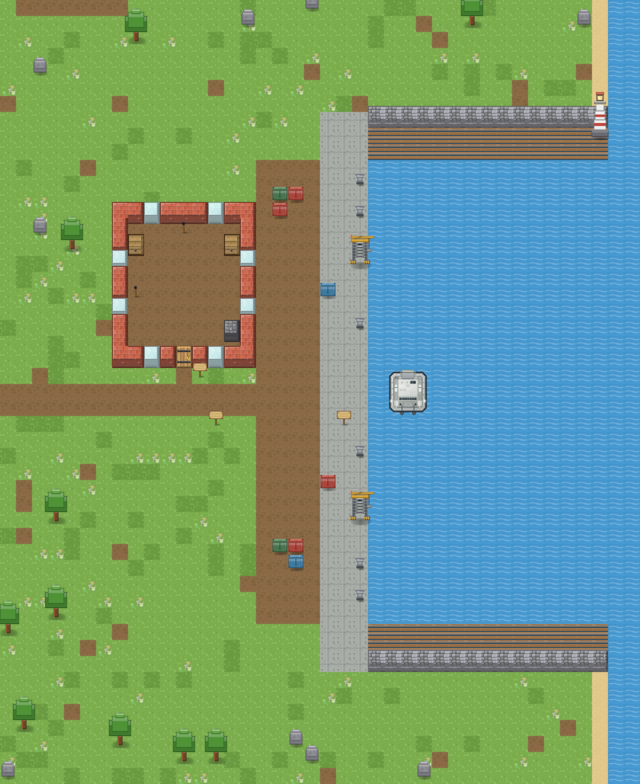
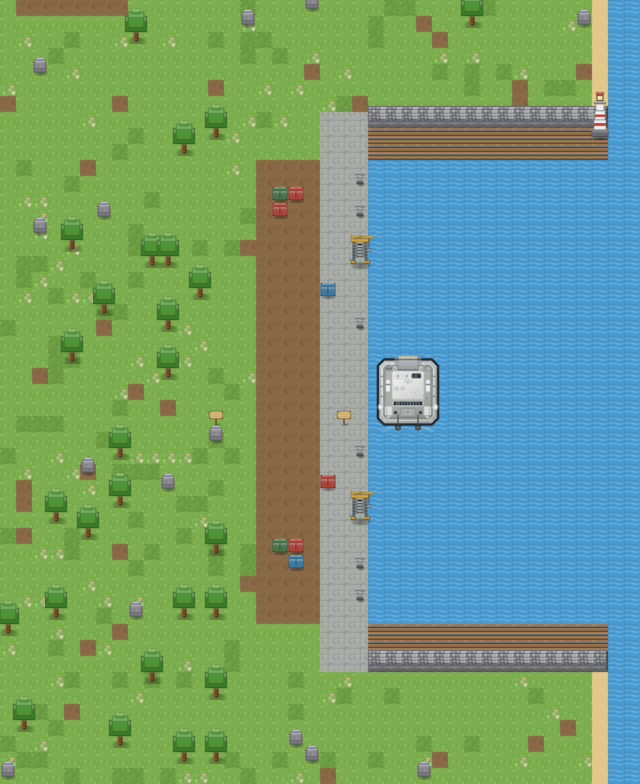
Port : plus de hangar ni de route, ferry agrandi
Le port reste sobre : la darse, les deux jetées, le quai bétonné, la
cour de stockage avec ses conteneurs, les grues, les bollards, le phare
et le ferry amarré.

- Le hangar en briques disparaît (murs, porte, coffres, four, torches) :
  plus de bâtiment, juste les installations à quai. La zone nettoyée se
  resserre sur l'emprise du port, la forêt revient border la cour.
- La route de terre qui descendait vers le centre est retirée : on
  rejoint le port à travers l'île.
- Le ferry passe de 3 × 3 à 5 × 5 tuiles (160 px au lieu de 96), ce qui
  le met à l'échelle du quai. Le SVG est agrandi en lissage activé (c'est
  un vectoriel), le repli procédural est mis à l'échelle autour de son
  ancre.
- test/smoke.mjs : les assertions du hangar et de la route sont
  remplacées par la cour de stockage et ses piles de conteneurs.

diff --git a/js/harbor.js b/js/harbor.js
@@ -12,10 +12,10 @@
 //     y=64 │ ▓▓▓▓▓▓▓▓▓▓▓                                        │
 //     y=78 │ ▓▓▓ quai ▓▓▓                                        │
 //     y=81 └───────────── jetée sud (ponton + parapet) ──────────┘
-//          tx=108  tx=111                        tx=125    tx=127
+//          tx=104  tx=111                        tx=125    tx=127
+//           (cour)
 //
-//  À l'ouest : la cour de stockage (terre), le hangar en briques et
-//  la route qui redescend vers le centre de l'île.
+//  À l'ouest : la cour de stockage (terre) et ses piles de conteneurs.
 // ============================================================
 
 import { CONTAINER_KINDS } from './blocks.js';
@@ -31,10 +31,6 @@ export const PORT = {
   moleS: { x0: 111, y0: 79, x1: 125, y1: 81 },
   // La cour de stockage, à terre.
   yard: { x0: 104, y0: 50, x1: 107, y1: 78 },
-  // Le hangar (murs de briques, vitrages, porte au sud).
-  store: { x0: 95, y0: 53, x1: 103, y1: 62 },
-  // La route de terre qui relie le port au centre de l'île.
-  road: { x0: 72, y0: 64, x1: 107, y1: 65 },
   // Le ferry amarré (tuile d'ancrage : son sprite couvre 3 × 3 tuiles).
   ferry: { tx: 113, ty: 64 },
   // Le phare, à la pointe de la jetée nord.
@@ -43,14 +39,12 @@ export const PORT = {
 
 // Zones nettoyées avant construction (aucun arbre, rocher ni minerai ne
 // doit pousser au milieu d'un mur ou dans le bassin).
-const CLEAR_PORT = { x0: 93, y0: 43, x1: 127, y1: 85 };
-const CLEAR_ROAD = { x0: 70, y0: 62, x1: 107, y1: 67 };
+const CLEAR_PORT = { x0: 102, y0: 43, x1: 127, y1: 85 };
 
 // Panneaux plantés à l'arrivée du port (le texte est semé par js/game.js).
 export const PORT_SIGNS = [
   { tx: 101, ty: 66, text: "PORT D'AVANIA" },
   { tx: 109, ty: 66, text: 'QUAI EST' },
-  { tx: 100, ty: 63, text: 'HANGAR' },
 ];
 
 // Parcourt un rectangle inclusif en ignorant ce qui sort de la carte.
@@ -79,15 +73,14 @@ export function buildHarbor(world) {
   carveBay(world);
   buildQuay(world);
   buildMoles(world);
-  buildYardAndRoad(world);
-  buildWarehouse(world);
+  buildYard(world);
   placeFurniture(world);
   return PORT;
 }
 
 // 1) On rase les ressources naturelles : le port remplace la forêt.
 function clearZone(world) {
-  for (const r of [CLEAR_PORT, CLEAR_ROAD]) {
+  for (const r of [CLEAR_PORT]) {
     eachTile(world, r, (tx, ty, i) => {
       world.blocks[i] = null;
       world.blocks2[i] = null;
@@ -119,41 +112,9 @@ function buildMoles(world) {
   for (let tx = PORT.moleS.x0; tx <= PORT.moleS.x1; tx++) world.setBlock(tx, PORT.moleS.y1, 'stone');
 }
 
-// 5) La cour de stockage et la route qui redescend vers le spawn.
-function buildYardAndRoad(world) {
+// 5) La cour de stockage : de la terre battue derrière le quai.
+function buildYard(world) {
   eachTile(world, PORT.yard, (tx, ty, i) => { world.floor[i] = 'dirt'; });
-  eachTile(world, PORT.road, (tx, ty, i) => { world.floor[i] = 'dirt'; });
-  // petit embranchement de la route vers la porte du hangar
-  const i = world.idx(99, 63);
-  world.floor[i] = 'dirt';
-}
-
-// 6) Le hangar : murs de briques, vitrages, porte au sud, et de quoi
-//    démarrer un chantier à l'intérieur (coffres, four, torches).
-function buildWarehouse(world) {
-  const s = PORT.store;
-  eachTile(world, s, (tx, ty, i) => {
-    const edge = tx === s.x0 || tx === s.x1 || ty === s.y0 || ty === s.y1;
-    world.floor[i] = 'dirt';
-    if (edge) world.blocks[i] = 'brick';
-  });
-
-  // Porte (au centre du mur sud) et fenêtres sur les quatre faces.
-  world.blocks[world.idx(99, s.y1)] = 'door';
-  const windows = [
-    [97, s.y1], [101, s.y1],   // sud
-    [97, s.y0], [101, s.y0],   // nord
-    [s.x0, 56], [s.x0, 59],    // ouest
-    [s.x1, 56], [s.x1, 59],    // est
-  ];
-  for (const [tx, ty] of windows) world.blocks[world.idx(tx, ty)] = 'glass';
-
-  // Intérieur : deux coffres de stockage, un four, deux torches.
-  world.blocks[world.idx(96, 55)] = 'chest';
-  world.blocks[world.idx(102, 55)] = 'chest';
-  world.blocks[world.idx(102, 60)] = 'furnace';
-  world.blocks[world.idx(96, 58)] = 'torch';
-  world.blocks[world.idx(99, 54)] = 'torch';
 }
 
 // 7) Le mobilier : ferry, phare, grues, conteneurs et bollards.

diff --git a/js/tileset.js b/js/tileset.js
@@ -1921,9 +1921,22 @@ function drawLighthouseRaw(ctx, x, y, shadow = true) {
   ctx.beginPath(); ctx.arc(x, y - 76, 17, 0, Math.PI * 2); ctx.fill();
 }
 
-// Ferry (solution de repli, dessinée en code). Le vrai sprite est le SVG
-// assets/boat-ferry.svg, chargé au démarrage par loadBoatSprite() : il
-// remplace celui-ci dès qu'il est prêt (même gabarit 96 × 96).
+// Gabarit du ferry : 5 × 5 tuiles, pour qu'il porte vraiment à côté du quai.
+// Le SVG et le repli procédural sont tous les deux rendus à cette taille.
+export const BOAT_SPRITE_SIZE = 160;
+
+// Ferry (solution de repli, dessinée en code) : tracé à l'échelle 96 puis
+// agrandi au gabarit courant, autour de son point d'ancrage.
+function drawFerryFallbackScaled(ctx, x, y, shadow = true) {
+  const k = BOAT_SPRITE_SIZE / 96;
+  ctx.save();
+  ctx.translate(x, y);
+  ctx.scale(k, k);
+  ctx.translate(-x, -y);
+  drawFerryFallbackRaw(ctx, x, y, shadow);
+  ctx.restore();
+}
+
 function drawFerryFallbackRaw(ctx, x, y, shadow = true) {
   if (shadow) softShadow(ctx, x, y + 6, 40, 12);
   ctx.fillStyle = '#2b3339';                       // flanc
@@ -2039,7 +2052,8 @@ function buildObjectSprites() {
   objectCache.bollard = makeObjectSprite(22, 26, 11, 22, drawBollardRaw);
   objectCache.lighthouse = makeObjectSprite(48, 100, 24, 88, drawLighthouseRaw);
   // Le ferry : repli procédural, remplacé par le SVG dès qu'il est chargé.
-  objectCache.ferry = makeObjectSprite(96, 96, 48, 48, drawFerryFallbackRaw);
+  objectCache.ferry = makeObjectSprite(BOAT_SPRITE_SIZE, BOAT_SPRITE_SIZE,
+    BOAT_SPRITE_SIZE / 2, BOAT_SPRITE_SIZE / 2, drawFerryFallbackScaled);
 }
 
 // ------------------------------------------------------------
@@ -2048,8 +2062,6 @@ function buildObjectSprites() {
 //  en cas d'échec (fichier absent, exécution en Node pour les tests)
 //  le repli reste en place et le jeu tourne sans rien changer.
 // ------------------------------------------------------------
-export const BOAT_SPRITE_SIZE = 96;
-
 export function loadBoatSprite(url = 'assets/boat-ferry.svg') {
   return new Promise((resolve) => {
     try {
@@ -2060,6 +2072,9 @@ export function loadBoatSprite(url = 'assets/boat-ferry.svg') {
           const size = BOAT_SPRITE_SIZE;
           const canvas = makeCanvas(size, size);
           const ctx = canvas.getContext('2d');
+          // Le SVG est un vectoriel : on veut un agrandissement lisse, pas
+          // le rendu « pixel art » par défaut des autres sprites.
+          ctx.imageSmoothingEnabled = true;
           ctx.drawImage(img, 0, 0, size, size);
           // Masque (silhouette) : sert aux fissures et à l'overlay de dégâts.
           const mask = makeCanvas(size, size);

diff --git a/js/world.js b/js/world.js
@@ -112,7 +112,8 @@ export class World {
     this.setBlock(cx - 3, cy - 4, 'ironOre');
 
     // 5) Le port, sur la côte EST : une darse creusée dans la carte, deux
-    //    jetées, un quai, un hangar et le ferry amarré (voir js/harbor.js).
+    //    jetées, un quai, une cour de stockage et le ferry amarré
+//    (voir js/harbor.js).
     //    C'est le seul ouvrage pré-construit de l'île : un point de
     //    ralliement, et le départ des traversées.
     buildHarbor(this);
